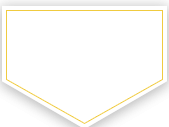
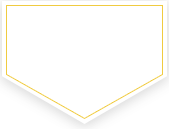
homepage: update source untuk hover tab

diff --git a/wp-content/themes/gettimee/style.css b/wp-content/themes/gettimee/style.css
@@ -380,15 +380,18 @@ a:focus, a:hover {
 }
 
 .z-index-img-normal > .icon-active {
-    margin-top: -1rem;
+    margin-top: -1.6rem;
 }
 
+/*hover untuk icon hitam*/
 .nav-item:hover > .nav-link > .z-index-img-normal > .icon-normal {
-    margin-top: -1rem;
+    margin-top: -1.6rem;
     -webkit-transition: all 0.5s;
     -moz-transition: all 0.5s;
     transition: all 0.5s;
 }
+
+/*hover untuk background judul*/
 .nav-item:hover > .nav-link > .bg-tab {
     background-image: url("assets/images/bg-tab-hover.png");
     background-repeat: no-repeat;
@@ -397,6 +400,15 @@ a:focus, a:hover {
     height: 100%;
     padding: 21px;
     margin-top: -.5rem;
+    -webkit-transition: all 0.5s;
+    -moz-transition: all 0.5s;
+    transition: all 0.5s;
+}
+
+/*agar background warna kuning ketika aktif tidak berubah*/
+.nav-item:hover > .nav-link.active > .bg-tab {
+    background-image: url(assets/images/bg-tab-active.png) !important;
+    margin-top: 0rem !important;
     -webkit-transition: all 0.5s;
     -moz-transition: all 0.5s;
     transition: all 0.5s;

diff --git a/wp-content/themes/gettimee/page-hompage.php b/wp-content/themes/gettimee/page-hompage.php
@@ -104,7 +104,7 @@ if (have_posts()) : while (have_posts()) : the_post();
             <div class="container">
                 <div class="row">
                     <div class="col-md-1 col-lg-3"></div>
-                    <div class="col-md-10 col-lg-6 mb-4">
+                    <div class="col-md-10 col-lg-6 mb-5">
                         <h4 class="bold yellow-clr">Everything you need for your team.</h4>
                         <h1 class="uppercase">GetTimee Features</h1>
                     </div>
